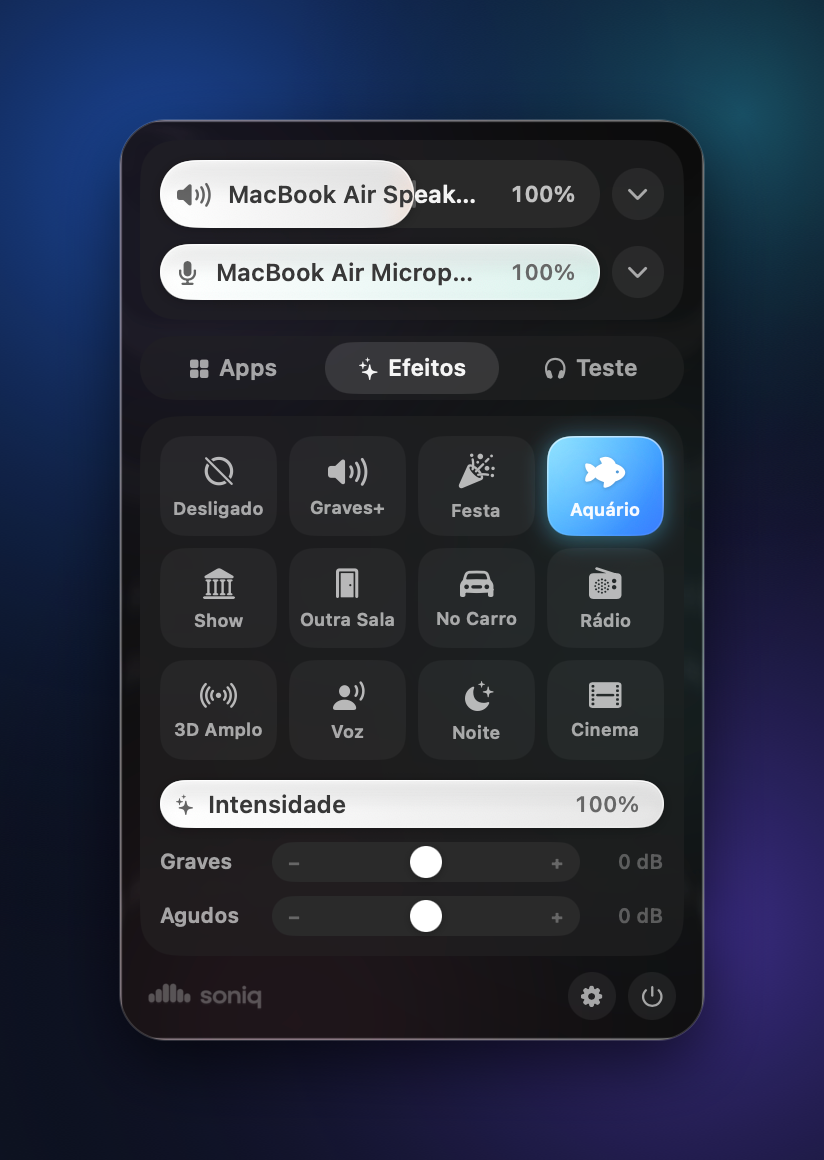
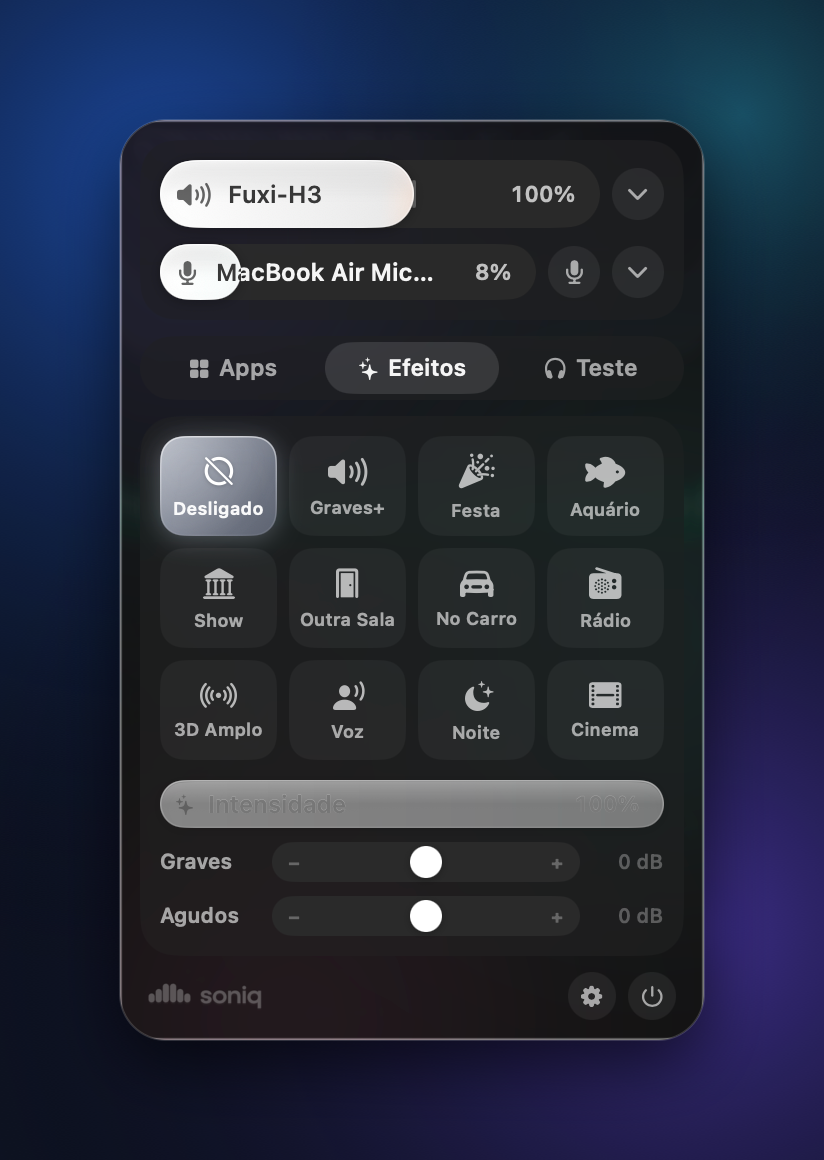
Soniq 0.1.1: mic mute button, real mute at zero, mic level lock
- Mute button next to the microphone slider.
- Dragging the mic or output to zero now turns on the device mute; the
  MacBook mic still picked up sound at its -32 dB minimum.
- Lock microphone level (on by default) restores the chosen level when
  call apps raise it with automatic gain control.
- README: step-by-step Open Anyway for the DMG, with a screenshot.

diff --git a/Sources/Soniq/SoniqModel.swift b/Sources/Soniq/SoniqModel.swift
@@ -38,6 +38,9 @@ final class SoniqModel: ObservableObject {
     /// Keep the chosen mic even when headphones with a mic connect.
     @Published private(set) var lockInput: Bool
     private var preferredInputUID: String?
+    /// Keep the mic level the user chose: call and browser apps raise it with automatic gain control.
+    @Published private(set) var lockInputLevel: Bool
+    private var inputLevels: [String: Float]
 
     // Per app
     @Published private(set) var volumes: [String: Float]
@@ -90,6 +93,8 @@ final class SoniqModel: ObservableObject {
         bass = Float(defaults.double(forKey: "bass"))
         treble = Float(defaults.double(forKey: "treble"))
         lockInput = defaults.bool(forKey: "lockInput")
+        lockInputLevel = defaults.object(forKey: "lockInputLevel") as? Bool ?? true
+        inputLevels = (defaults.dictionary(forKey: "inputLevels") as? [String: Double])?.mapValues(Float.init) ?? [:]
         preferredInputUID = defaults.string(forKey: "preferredInput")
 
         refreshOutput()
@@ -331,7 +336,12 @@ final class SoniqModel: ObservableObject {
             hardwareVolume = 1
             boost = value
         }
-        if outputMuted && value > 0 { AudioSystem.setMuted(false, outputID) }
+        // Volume 0 isn't always silent on every device, so the bottom of the slider mutes too.
+        let silent = value < 0.01
+        if silent != outputMuted {
+            AudioSystem.setMuted(silent, outputID)
+            outputMuted = silent
+        }
         taps.forEach { key, tap in tap.gain = gain(for: key) }
         syncTaps()
         save()
@@ -393,15 +403,35 @@ final class SoniqModel: ObservableObject {
         refreshInput()
     }
 
+    /// Many mics only go down to about -32 dB, so the bottom of the slider also mutes the device.
     func setInputVolume(_ value: Float) {
         guard inputAdjustable else { return }
-        inputVolume = value
-        AudioSystem.setVolume(value, of: inputID, scope: kAudioObjectPropertyScopeInput)
-        if inputMuted && value > 0 { AudioSystem.setMuted(false, inputID, scope: kAudioObjectPropertyScopeInput) }
+        let scope = kAudioObjectPropertyScopeInput
+        let silent = value < 0.01
+        inputVolume = silent ? 0 : value
+        AudioSystem.setVolume(inputVolume, of: inputID, scope: scope)
+        if let uid = input?.uid { inputLevels[uid] = inputVolume }
+        if silent != inputMuted {
+            AudioSystem.setMuted(silent, inputID, scope: scope)
+            inputMuted = silent
+        }
+        save()
+    }
+
+    func setLockInputLevel(_ locked: Bool) {
+        lockInputLevel = locked
+        if locked, let uid = input?.uid, inputLevels[uid] == nil { inputLevels[uid] = inputVolume }
+        save()
     }
 
     func toggleInputMute() {
-        AudioSystem.setMuted(!inputMuted, inputID, scope: kAudioObjectPropertyScopeInput)
+        let scope = kAudioObjectPropertyScopeInput
+        let mute = !inputMuted
+        AudioSystem.setMuted(mute, inputID, scope: scope)
+        // Unmuting from the bottom of the slider would stay silent, so bring the level back up.
+        if !mute && inputVolume < 0.01 && inputAdjustable {
+            AudioSystem.setVolume(0.5, of: inputID, scope: scope)
+        }
         refreshInputLevel()
     }
 
@@ -426,8 +456,20 @@ final class SoniqModel: ObservableObject {
     private func refreshInputLevel() {
         let scope = kAudioObjectPropertyScopeInput
         inputAdjustable = AudioSystem.canSetVolume(of: inputID, scope: scope)
-        inputVolume = AudioSystem.volume(of: inputID, scope: scope) ?? 1
+        let current = AudioSystem.volume(of: inputID, scope: scope) ?? 1
         inputMuted = AudioSystem.isMuted(inputID, scope: scope)
+
+        if lockInputLevel, inputAdjustable, let uid = input?.uid, inputLevels[uid] == nil {
+            inputLevels[uid] = current
+            save()
+        }
+        // Another app changed the level: put the user's choice back.
+        if lockInputLevel, inputAdjustable, let uid = input?.uid, let wanted = inputLevels[uid], abs(current - wanted) > 0.015 {
+            AudioSystem.setVolume(wanted, of: inputID, scope: scope)
+            inputVolume = wanted
+        } else {
+            inputVolume = current
+        }
     }
 
     // MARK: Persistence & login item
@@ -443,6 +485,8 @@ final class SoniqModel: ObservableObject {
         defaults.set(Double(treble), forKey: "treble")
         defaults.set(lockInput, forKey: "lockInput")
         defaults.set(preferredInputUID, forKey: "preferredInput")
+        defaults.set(lockInputLevel, forKey: "lockInputLevel")
+        defaults.set(inputLevels.mapValues(Double.init), forKey: "inputLevels")
     }
 
     private func updateLoginItem() {

diff --git a/Sources/Soniq/Views/SoniqView.swift b/Sources/Soniq/Views/SoniqView.swift
@@ -111,6 +111,10 @@ struct SoniqView: View {
                         .font(.system(size: 11, weight: .semibold))
                         .contentTransition(.symbolEffect(.replace))
                 }
+                RoundButton(symbol: model.inputMuted ? "mic.slash.fill" : "mic.fill", size: 26,
+                            active: model.inputMuted, help: model.inputMuted ? "Unmute microphone" : "Mute microphone") {
+                    model.toggleInputMute()
+                }
                 pickerButton(.input)
             }
 
@@ -129,6 +133,18 @@ struct SoniqView: View {
                     .padding(.horizontal, 8)
                     .padding(.vertical, 3)
                     .help(L("Don't switch to a headset mic when it connects"))
+                    HStack {
+                        Text(L("Lock microphone level"))
+                            .font(.system(size: 11.5))
+                        Spacer()
+                        Toggle("", isOn: Binding(get: { model.lockInputLevel }, set: model.setLockInputLevel))
+                            .toggleStyle(.switch)
+                            .controlSize(.mini)
+                            .labelsHidden()
+                    }
+                    .padding(.horizontal, 8)
+                    .padding(.vertical, 3)
+                    .help(L("Stop call apps from raising your mic level"))
                 }
             }
             }

diff --git a/Sources/Soniq/Views/SettingsView.swift b/Sources/Soniq/Views/SettingsView.swift
@@ -40,6 +40,8 @@ struct SettingsView: View {
                 SettingRow(symbol: "power.circle.fill", title: "Launch at Login", isOn: $model.launchAtLogin)
                 SettingRow(symbol: "lock.fill", title: "Keep Chosen Microphone",
                            isOn: Binding(get: { model.lockInput }, set: model.setLockInput))
+                SettingRow(symbol: "dial.medium.fill", title: "Lock Microphone Level",
+                           isOn: Binding(get: { model.lockInputLevel }, set: model.setLockInputLevel))
                 LinkRow(symbol: "speaker.wave.2.fill", title: "Sound Settings…") {
                     open("x-apple.systempreferences:com.apple.Sound-Settings.extension")
                 }

diff --git a/README.md b/README.md
@@ -99,12 +99,20 @@ curl -fL -o ~/Downloads/Soniq.dmg https://github.com/webdevpls/soniq/releases/la
 
 Na janela que abrir, arraste o **Soniq** para **Applications** (Aplicativos).
 
-**Pelo navegador:** baixe o [**Soniq.dmg**](https://github.com/webdevpls/soniq/releases/latest/download/Soniq.dmg). Nesse caso o macOS bloqueia na primeira vez:
+### Opção 3: DMG pelo navegador
 
-1. Ao abrir, o macOS mostra *"Soniq.dmg" não foi aberto*. Clique em **Concluído**.
-2. Vá em **Ajustes do Sistema → Privacidade e Segurança**, role até o fim e clique em **Abrir Mesmo Assim** ao lado do Soniq. Confirme com a sua senha.
-3. Com o DMG aberto, arraste o **Soniq** para a pasta **Aplicativos**.
-4. Abra o Soniq. Se o aviso aparecer de novo para o app, repita o passo 2.
+Baixe o [**Soniq.dmg**](https://github.com/webdevpls/soniq/releases/latest/download/Soniq.dmg). Na primeira vez o macOS bloqueia, porque o app ainda não é notarizado pela Apple. Para liberar:
+
+1. Abra o **Soniq.dmg**. Aparece o aviso *"Soniq.dmg" não foi aberto*. Clique em **Concluído** (não em "Mover para o Lixo").
+2. Abra **Ajustes do Sistema → Privacidade e Segurança** e role até a seção **Segurança**.
+3. Vai aparecer *"Soniq.dmg" foi bloqueado para proteger o seu Mac*. Clique em **Abrir Mesmo Assim** e confirme com a sua senha ou o Touch ID.
+
+   <img src="docs/screenshots/open-anyway.png" width="560" alt="Privacidade e Segurança: Abrir Mesmo Assim">
+
+4. O DMG abre. Arraste o **Soniq** para a pasta **Aplicativos** (Applications).
+5. Abra o Soniq. Se o mesmo aviso aparecer para o app, repita os passos 2 e 3.
+
+> O botão **Abrir Mesmo Assim** só aparece por cerca de uma hora depois que você tenta abrir o arquivo. Se não estiver lá, abra o DMG de novo e volte aos Ajustes.
 
 O ícone aparece na **barra de menus**, não no Dock.
 
@@ -154,9 +162,11 @@ Clique na **setinha** ao lado do volume para ver todas as saídas: alto-falantes
 
 <img src="docs/screenshots/microphone.png" width="360" align="right" alt="Lista de microfones">
 
-O segundo controle é o **nível do microfone**. Clique no ícone do mic para silenciá-lo.
+O segundo controle é o **nível do microfone**. Para silenciar, use o botão **🎙 mudo** ao lado do controle, clique no ícone do mic ou arraste até o zero: no zero o Soniq liga o mudo de verdade, porque muitos microfones ainda captam som baixinho com o volume no mínimo.
 
 Abra a setinha dele para escolher o microfone. Ligue **Manter este microfone** para continuar no mic que você escolheu: quando um fone com microfone conecta, o macOS normalmente troca para ele (e fones Bluetooth caem para qualidade de ligação). O Soniq volta na hora para o seu.
+
+Ligue **Travar nível do microfone** (vem ligado) para manter o nível que você escolheu: apps de chamada como Meet, WhatsApp e Zoom costumam aumentar o volume do mic sozinhos, e o Soniq volta na hora para o seu valor.
 
 > Algumas entradas, como o iPhone usado como microfone, não permitem mudar o nível. Nesses casos o controle fica apagado.
 

diff --git a/README.en.md b/README.en.md
@@ -98,12 +98,20 @@ curl -fL -o ~/Downloads/Soniq.dmg https://github.com/webdevpls/soniq/releases/la
 
 In the window that opens, drag **Soniq** into **Applications**.
 
-**From the browser:** download [**Soniq.dmg**](https://github.com/webdevpls/soniq/releases/latest/download/Soniq.dmg). macOS blocks it the first time:
+### Option 3: DMG from the browser
 
-1. When you open it, macOS says *"Soniq.dmg" Not Opened*. Click **Done**.
-2. Go to **System Settings → Privacy & Security**, scroll down and click **Open Anyway** next to Soniq. Confirm with your password.
-3. With the DMG open, drag **Soniq** into **Applications**.
-4. Open Soniq. If the prompt appears again for the app, repeat step 2.
+Download [**Soniq.dmg**](https://github.com/webdevpls/soniq/releases/latest/download/Soniq.dmg). macOS blocks it the first time because the app isn't notarized by Apple yet. To allow it:
+
+1. Open **Soniq.dmg**. You'll see *"Soniq.dmg" Not Opened*. Click **Done** (not "Move to Trash").
+2. Open **System Settings → Privacy & Security** and scroll to the **Security** section.
+3. You'll see *"Soniq.dmg" was blocked to protect your Mac*. Click **Open Anyway** and confirm with your password or Touch ID.
+
+   <img src="docs/screenshots/open-anyway.png" width="560" alt="Privacy & Security: Open Anyway">
+
+4. The DMG opens. Drag **Soniq** into **Applications**.
+5. Open Soniq. If the same prompt appears for the app, repeat steps 2 and 3.
+
+> **Open Anyway** only shows for about an hour after you try to open the file. If it's missing, open the DMG again and go back to Settings.
 
 Soniq lives in the **menu bar**, not in the Dock.
 
@@ -153,9 +161,11 @@ Click the **chevron** next to the volume slider to list every output: built-in s
 
 <img src="docs/screenshots/microphone.png" width="360" align="right" alt="Microphone list">
 
-The second slider is your **microphone level**. Click the mic icon to mute it.
+The second slider is your **microphone level**. To mute it, use the **mute button** next to the slider, click the mic icon or drag it to zero: at zero Soniq turns on the device's real mute, because many mics still pick up sound at their lowest level.
 
 Open its chevron to pick the input device. Turn on **Keep this microphone** to stay on the mic you chose: when headphones with a built-in mic connect, macOS normally switches to them (and Bluetooth headsets drop to call quality). Soniq switches right back.
+
+Turn on **Lock microphone level** (on by default) to keep the level you chose: call apps like Meet, WhatsApp and Zoom often raise the mic volume on their own, and Soniq puts it right back.
 
 > Some inputs, like an iPhone used as a microphone, don't allow their level to be changed. The slider is dimmed for those.
 

diff --git a/CHANGELOG.md b/CHANGELOG.md
@@ -2,6 +2,16 @@
 
 Todas as mudanças importantes do Soniq ficam registradas aqui. O projeto segue o [Versionamento Semântico](https://semver.org/lang/pt-BR/).
 
+## [0.1.1] - 2026-10-17
+
+### Novidades
+- Botão de silenciar o microfone ao lado do controle do mic.
+- Trava do nível do microfone: apps de chamada (Meet, WhatsApp, Zoom…) não conseguem mais aumentar o volume do mic sozinhos. Ligada por padrão.
+
+### Correções
+- Levar o microfone ou o volume até o zero agora silencia de verdade. Antes, o mic do MacBook ainda captava som a -32 dB.
+- Reativar o microfone a partir do zero volta o nível para 50%, em vez de continuar mudo.
+
 ## [0.1.0] - 2026-10-17
 
 Primeira versão pública.
@@ -17,4 +27,5 @@ Primeira versão pública.
 - Interface em português e inglês.
 - Interface nativa em SwiftUI com Liquid Glass no macOS 26.
 
+[0.1.1]: https://github.com/webdevpls/soniq/releases/tag/v0.1.1
 [0.1.0]: https://github.com/webdevpls/soniq/releases/tag/v0.1.0

diff --git a/docs/LEIA-ME.md b/docs/LEIA-ME.md
@@ -25,7 +25,9 @@ Na janela que abrir, arraste o **Soniq** para **Applications**.
 ### Opção 3: DMG pelo navegador
 
 1. Abra o **Soniq.dmg**. O macOS mostra *"não foi aberto"*: clique em **Concluído**.
-2. Vá em **Ajustes do Sistema → Privacidade e Segurança**, role até o fim e clique em **Abrir Mesmo Assim**. Confirme com a sua senha.
+2. Vá em **Ajustes do Sistema → Privacidade e Segurança**, role até a seção **Segurança** e clique em **Abrir Mesmo Assim** ao lado de *"Soniq.dmg" foi bloqueado*. Confirme com a sua senha.
+
+   ![Abrir Mesmo Assim](https://raw.githubusercontent.com/webdevpls/soniq/main/docs/screenshots/open-anyway.png)
 3. Abra o DMG de novo e arraste o **Soniq** para **Applications** (Aplicativos).
 4. Abra o Soniq. Se o aviso aparecer para o app, repita o passo 2.
 
